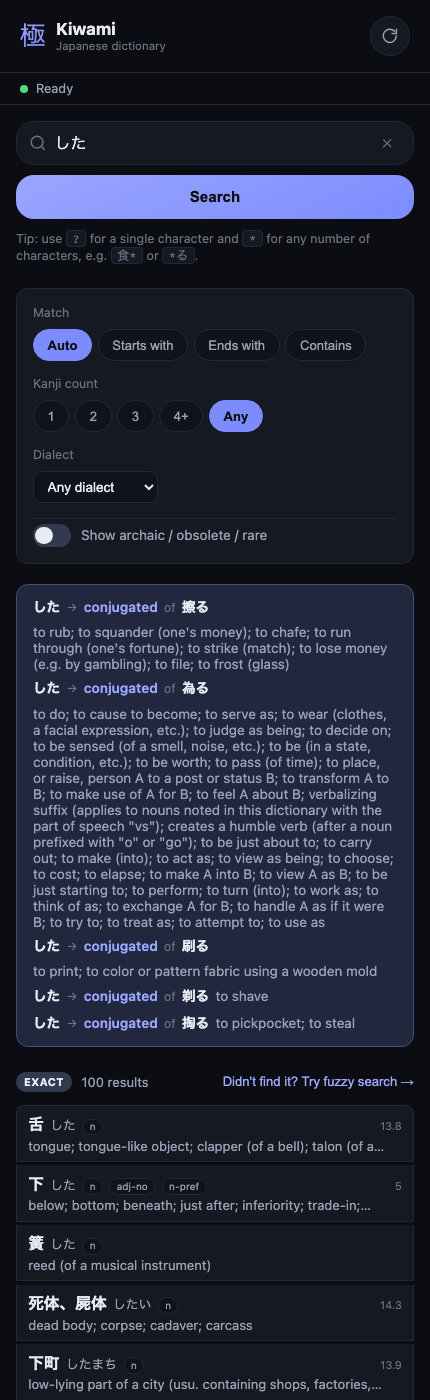
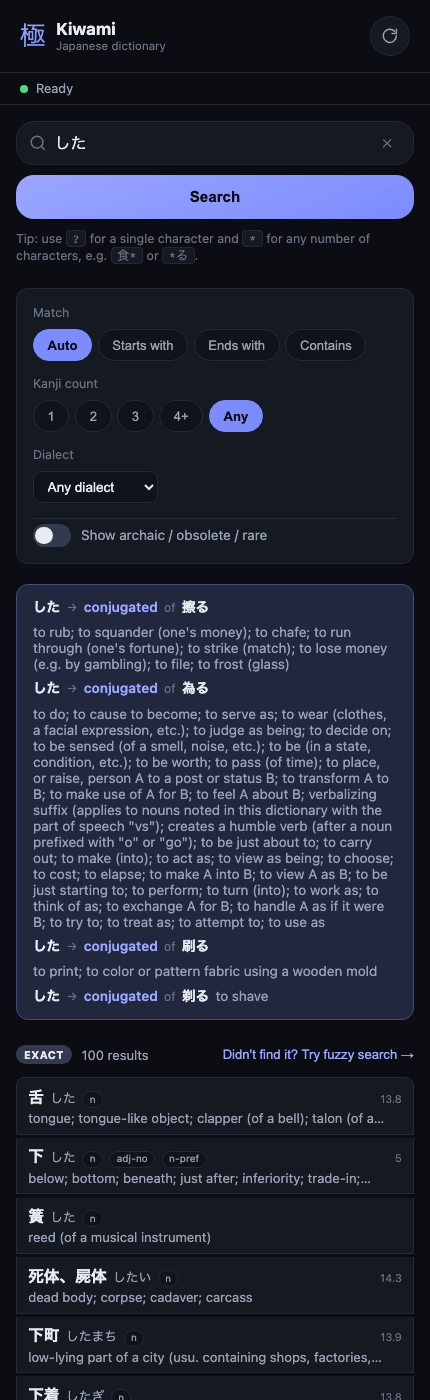
Only show common matches in the conjugated-of block
Deconjugation candidates lean on suffix-stripping and kuromoji fallback
guesses, which surface obscure same-reading verbs (e.g. した also
deconjugates to 掏る) alongside the one the user actually meant. Filter
to entries carrying a JMdict priority tag, the same commonness signal
already driving the score badge on regular results.

Changed region(s): [[0.0302, 0.7064, 0.9674, 1.0], [0.8767, 0.9521, 0.9372, 1.0]]

diff --git a/src/App.vue b/src/App.vue
@@ -74,6 +74,15 @@ function archaicView(list) {
 const resultsView = computed(() => archaicView(results.value));
 const fuzzyResultsView = computed(() => archaicView(fuzzyResults.value));
 
+// Deconjugation candidates lean on loose suffix-stripping (and, as a
+// fallback, kuromoji's basic_form guesses - see deconjugate.js), which
+// surfaces obscure same-reading verbs (e.g. した also deconjugates to 為る,
+// 擦る, 剃る, 掏る) alongside the one the user actually meant. Priority tags
+// (news1/ichi1/spec1/gai1/...) are JMdict's own commonness signal - the same
+// one driving the score badge on regular results - so reusing it here hides
+// that noise without a separate heuristic.
+const commonDeconjugated = computed(() => deconjugated.value.filter((d) => d.priority.length > 0));
+
 const selectedDialectLabel = computed(
   () => DIALECT_OPTIONS.find(([t]) => t === dialect.value)?.[1] ?? null,
 );
@@ -292,8 +301,8 @@ onMounted(loadRealDictionary);
         </label>
       </section>
 
-      <section v-if="deconjugated.length" class="deconj-card">
-        <div v-for="d in deconjugated" :key="`${d.id}-${d.relation}`" class="deconj-row">
+      <section v-if="commonDeconjugated.length" class="deconj-card">
+        <div v-for="d in commonDeconjugated" :key="`${d.id}-${d.relation}`" class="deconj-row">
           <span class="deconj-surface">{{ d.surface }}</span>
           <span class="deconj-arrow">→</span>
           <span class="deconj-relation">{{ d.relation }}</span>

diff --git a/README.md b/README.md
@@ -9,7 +9,7 @@ A Japanese smart dictionary to find a word from how it sounds.
 - Furigana you can toggle off
 - Favourites/history that sync across your own devices — no account, no server
 
-![Searching "した" in Kiwami's dev harness: it deconjugates to 擦る/為る/刷る/剃る/掏る and lists dictionary matches with tags and glosses](docs/screenshot.png)
+![Searching "した" in Kiwami's dev harness: it deconjugates to 擦る/為る/刷る/剃る and lists dictionary matches with tags and glosses](docs/screenshot.png)
 
 Regenerate this screenshot with `npm run screenshot` (see [scripts/screenshot.mjs](scripts/screenshot.mjs); requires `public/dictionary.db` — run `npm run build:db` first if missing).
 
